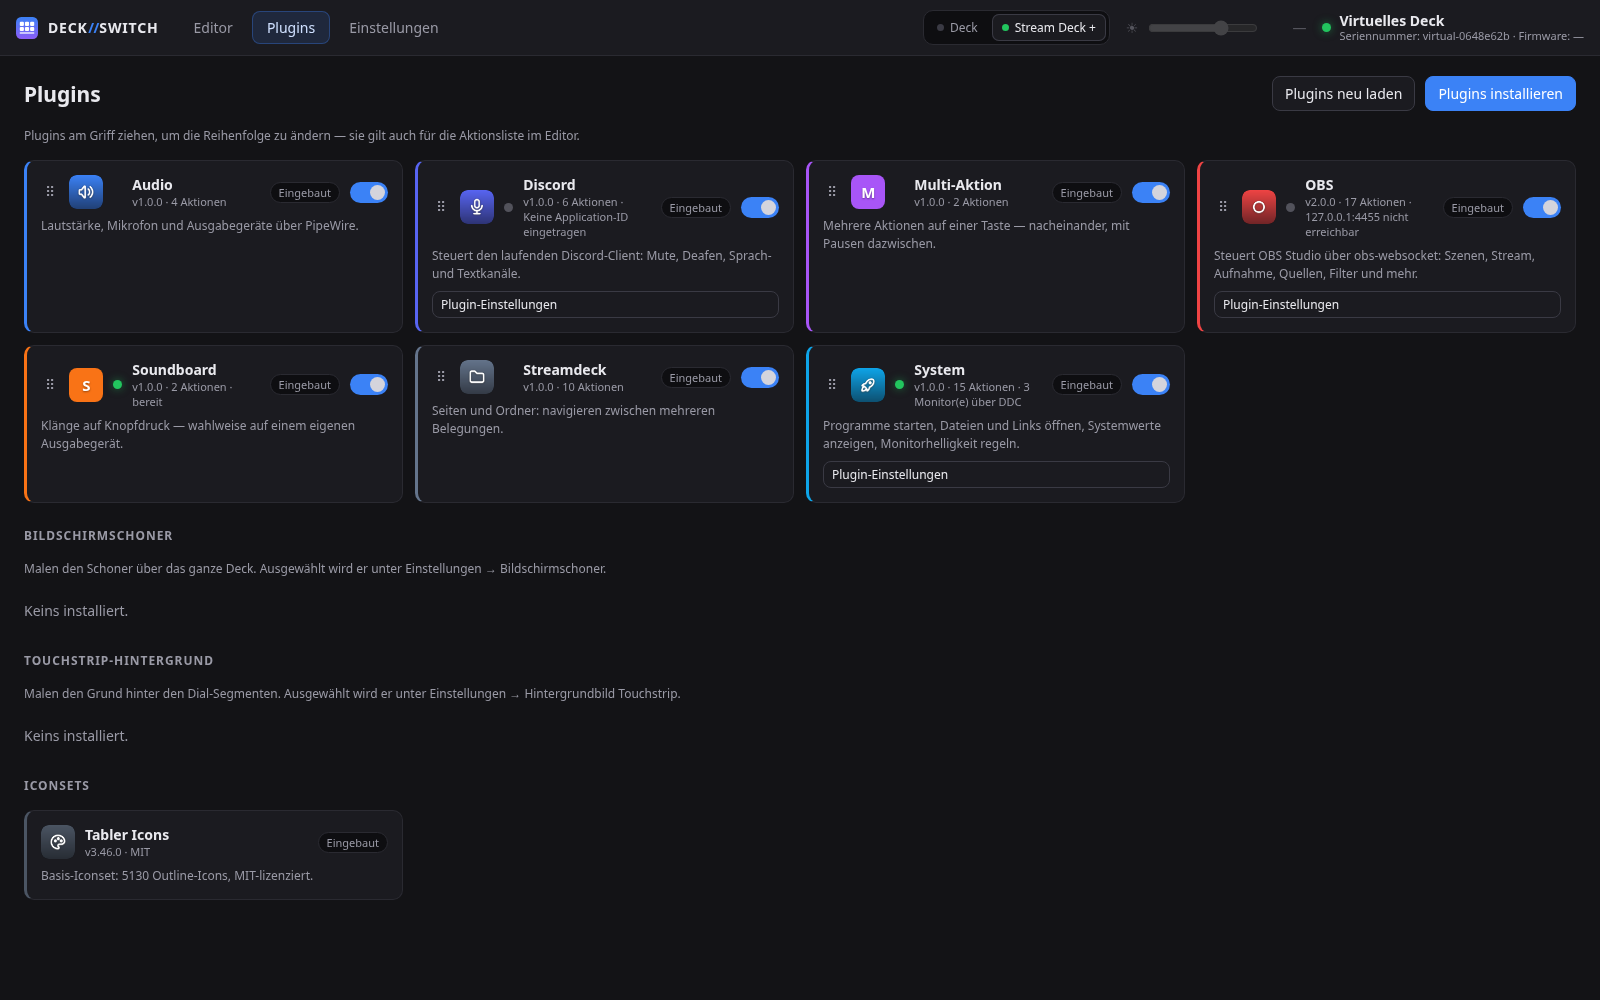
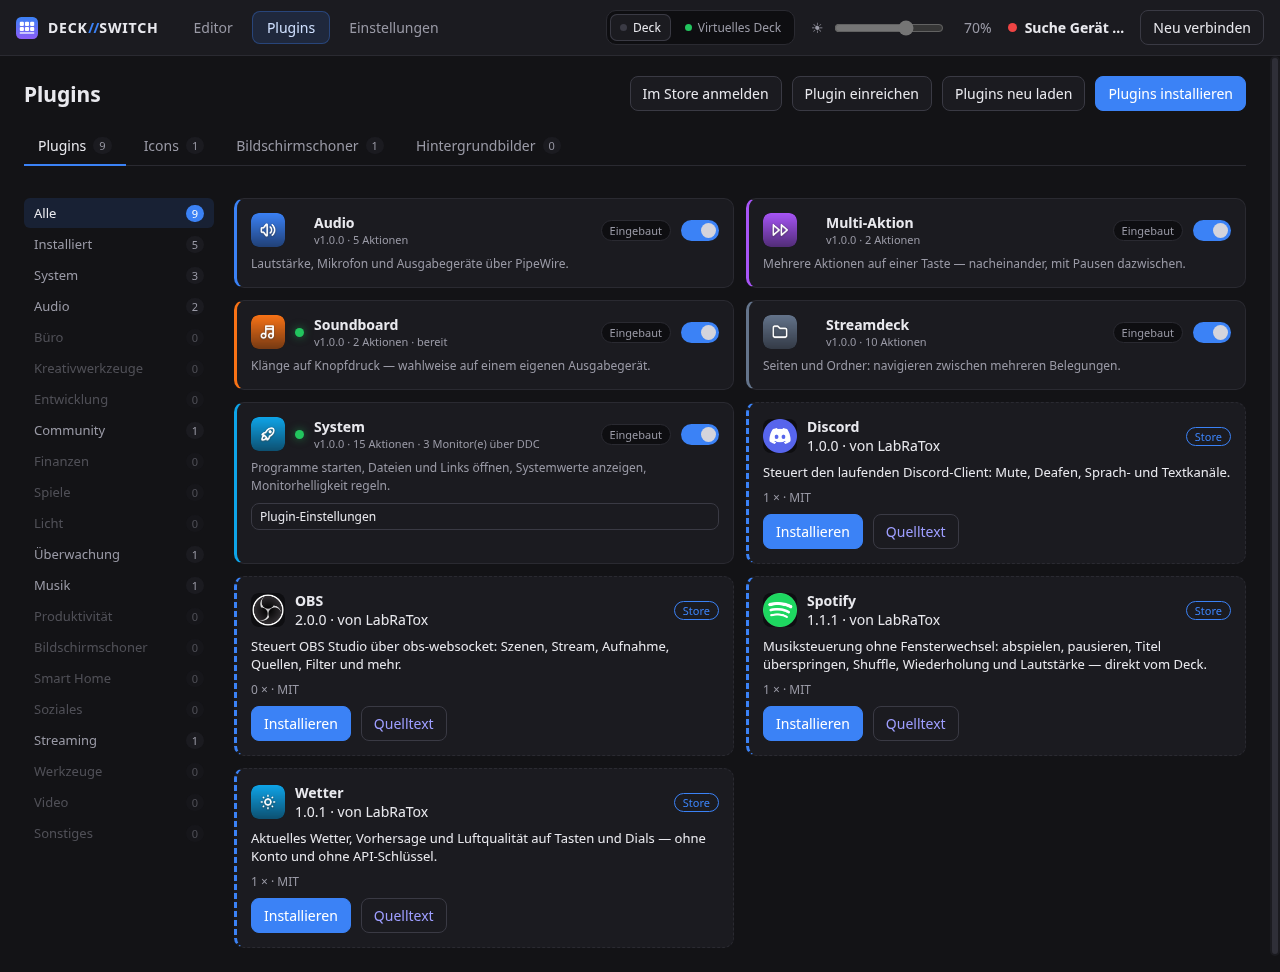
Refactor code structure for improved readability and maintainability

diff --git a/README.de.md b/README.de.md
@@ -93,10 +93,21 @@ Nachinstallieren geht auf vier Wegen: über den **Store** direkt in der App,
 aus einer ZIP-Datei, von einer Adresse oder über einen `streamdeck://`-Link
 im Browser.
 
-**Plugin-Übersicht und Einstellungen**
+**Integrierter Plugin-Store**
+Er zeigt dir alle verfügbaren Plugins, auch die installierten. Noch nicht
+installierte erkennst du am gestrichelten Rahmen. Ein Klick auf den Namen
+öffnet die Detailseite mit Bildern, Beschreibung, Lizenz und Größe. Links
+filterst du nach Thema, oben nach Art.
 
 <p align="center">
-  <img src="docs/screenshots/plugins.png" alt="Plugin-Übersicht" width="49%">
+  <img src="docs/screenshots/plugins.png" alt="Plugin-Übersicht mit Store-Karten" width="49%">
+  <img src="docs/screenshots/store.png" alt="Ein Plugin aus dem Store" width="49%">
+</p>
+
+**Einstellungen**
+Sprache, Standard-Iconset, Autostart und alles zu den Decks.
+
+<p align="center">
   <img src="docs/screenshots/einstellungen.png" alt="Einstellungen" width="49%">
 </p>
 

diff --git a/README.md b/README.md
@@ -89,10 +89,21 @@ There are four ways to install one: through the **store** inside the app,
 from a ZIP file, from a URL, or through a `streamdeck://` link in the
 browser.
 
-**Plugin overview and settings**
+**Built-in plugin store**
+It shows you every plugin there is, the installed ones included. The ones you
+do not have yet carry a dashed frame. Clicking the name opens the detail page
+with pictures, description, licence and size. Filter by topic on the left,
+by kind at the top.
 
 <p align="center">
-  <img src="docs/screenshots/plugins.png" alt="Plugin overview" width="49%">
+  <img src="docs/screenshots/plugins.png" alt="Plugin overview with store cards" width="49%">
+  <img src="docs/screenshots/store.png" alt="A plugin from the store" width="49%">
+</p>
+
+**Settings**
+Language, default icon set, autostart and everything about the decks.
+
+<p align="center">
   <img src="docs/screenshots/einstellungen.png" alt="Settings" width="49%">
 </p>
 
